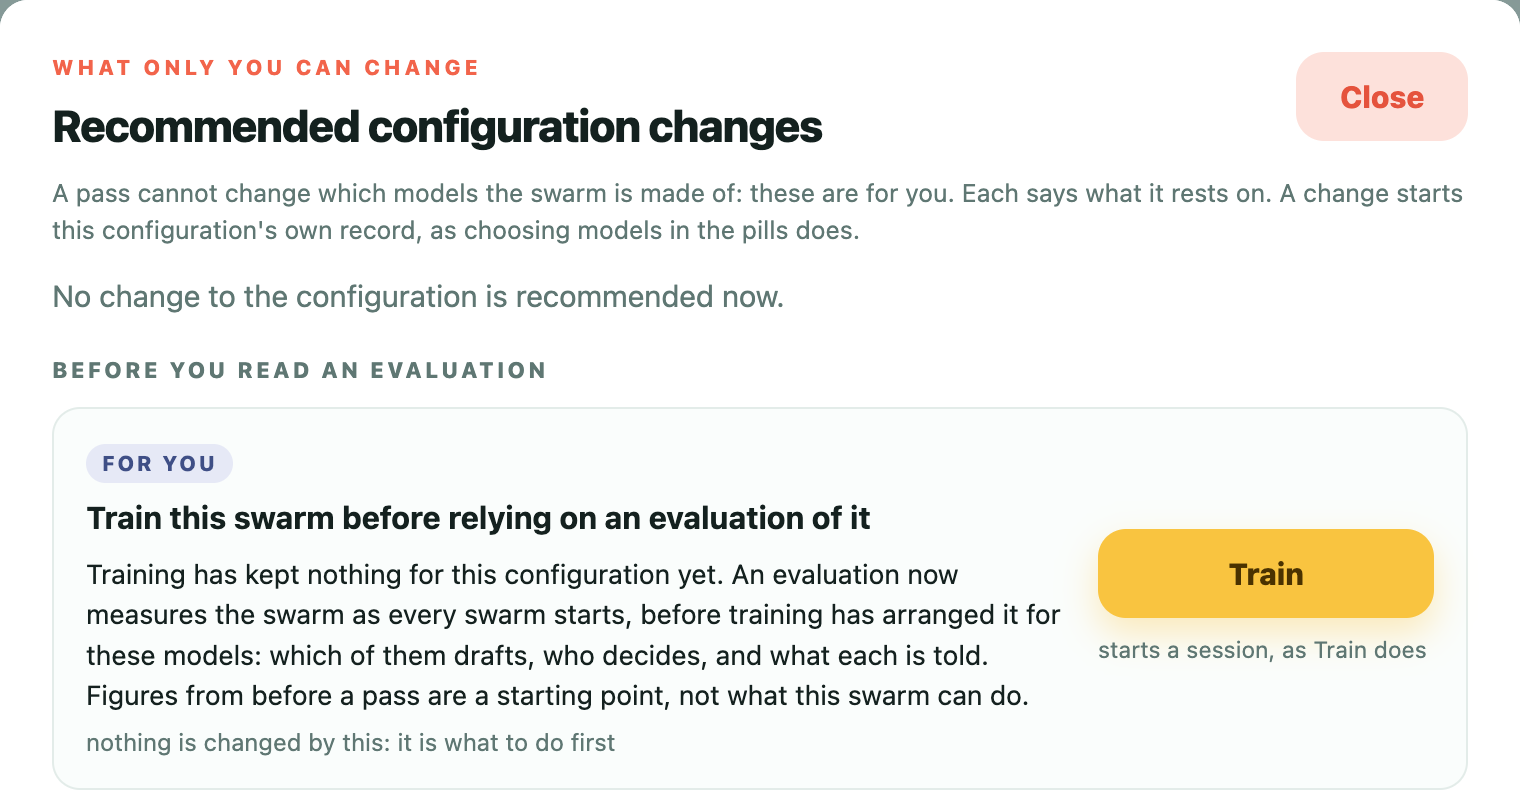
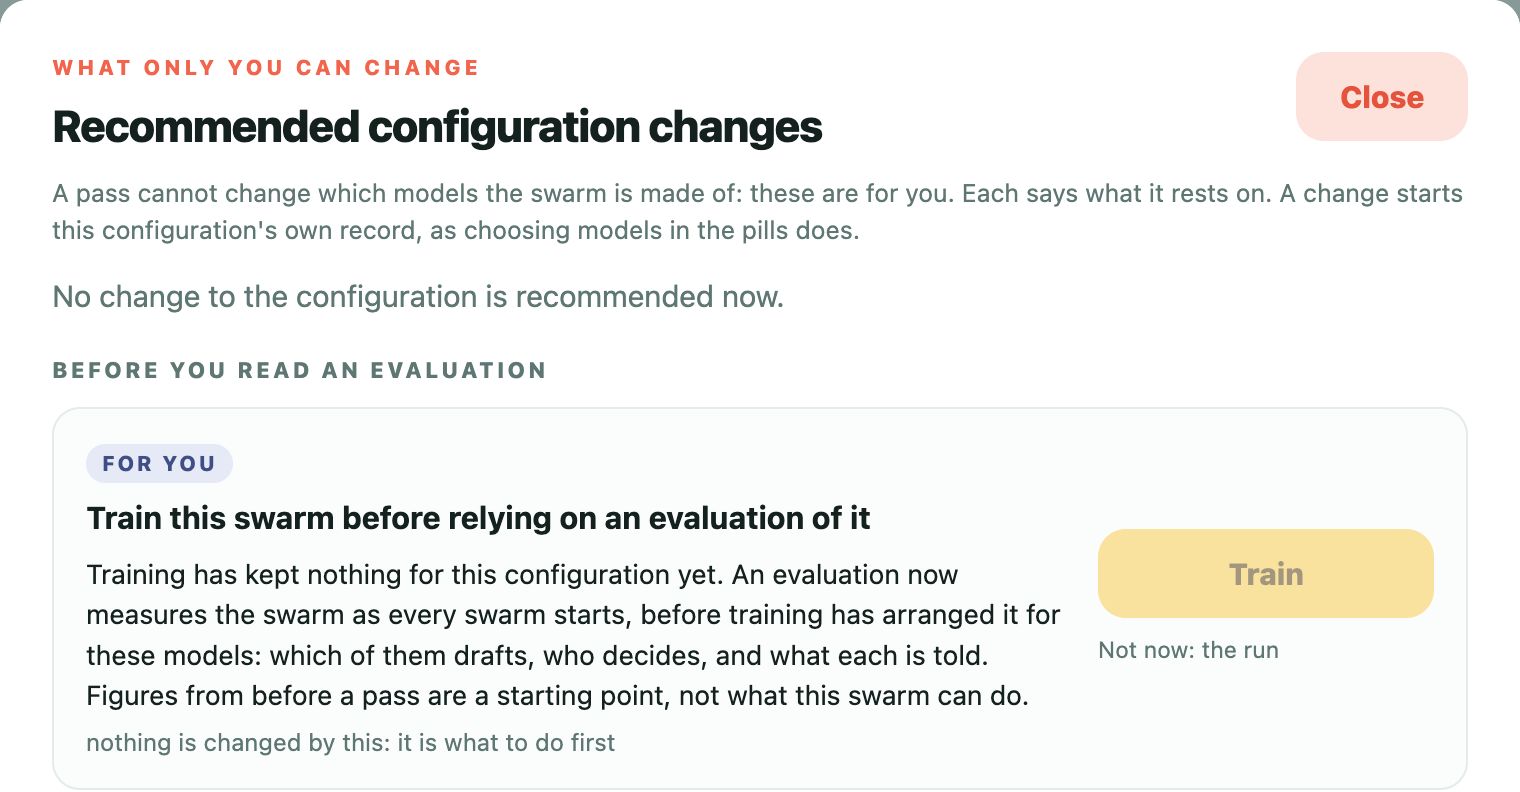
docs: the five older dashboard pictures retaken, descriptions matched
The Train card, the plan, the spec, the questions and the
recommendations were of 18:20, before the run's first two steps ended.
Retaken from the page as served that evening, and each description
corrected to what its picture shows: the spec's Search verdict is open
(it read short), the Train card and the recommendations show the run
going. The page's introduction says which pictures were taken while the
run was stopped and which while it was going.

Changed region(s): [[0.7112, 0.6667, 0.9586, 0.8485]]

diff --git a/docs/dashboard.md b/docs/dashboard.md
@@ -6,9 +6,8 @@ python3 ui/swarm_ui.py
 
 It opens at `http://127.0.0.1:8787/` (`--port` changes that). It needs nothing installed.
 
-The pictures here and at the top of this page show it on 2026-11-22: a swarm of LFM2.5 1.2B in both places against
-Nemotron 3.5 Lightning 30B, evaluated as configured, its run paused and nothing running. They are taken from the page as
-it is served. Every section folds, smoothly, and says in a line what it holds while folded; open or folded
+The pictures here and at the top of the [README](../README.md) show it on 2026-11-22: a swarm of LFM2.5 1.2B in both places against
+Nemotron 3.5 Lightning 30B, that evening. They are taken from the page as it is served: the top of the page, Evaluate and the System picture while its run was stopped after its second step, the others once it was going again. Every section folds, smoothly, and says in a line what it holds while folded; open or folded
 is kept on the device.
 
 <p align="center">
@@ -18,7 +17,7 @@ is kept on the device.
 <p align="center"><em>Evaluate the swarm: the module&#39;s score as a share of the larger model&#39;s on the same questions, and the three evaluations Run sets side by side: as configured, pretrained, and pretrained and trained. The three buttons open the same results as a line for every task, as a paper sets them out, and drawn.</em></p>
 
 <p align="center">
-  <img src="images/dashboard-arrangement.png" alt="The Train card: 0% answers good in pass 1; the classes of input a session trains (with tools, a conversation, asking for code, a plain question); Clear training state; the swarm as it stands (briefs v1, 7 slots on 2 models, 0 kept changes); nothing running and no model loaded; Question by question, not begun, with the key to its pips; and the plain flow as faces: draft, try, check, decide, write" width="860">
+  <img src="images/dashboard-arrangement.png" alt="The Train card: 0% answers good in pass 1; the classes of input a session trains (with tools, a conversation, asking for code, a plain question); Clear training state; the swarm as it stands (briefs v1, 7 slots on 2 models, 0 kept changes); a line saying that the run is going and training waits for it, the models being loaded for the run; Question by question, not begun, with the key to its pips; and the plain flow as faces: draft, try, check, decide, write" width="860">
 </p>
 
 <p align="center"><em>The Train card before a pass: the share of answers good, the classes of input a session trains, and every slot as a face of its model, in the step of the flow it stands in. Choosing one opens what it is told.</em></p>
@@ -36,7 +35,7 @@ is kept on the device.
 <p align="center"><em>Visualizing the System: the run, a request inside the module, what training keeps, the training of the arrangement in detail, and the judge. Every part has a code to name it by, and the box the run or the loop is in is marked.</em></p>
 
 <p align="center">
-  <img src="images/dashboard-spec.png" alt="The head of the SwOA spec of one configuration: its name; Copy as JSON, Save as a file, and Publish to specs/ greyed out; not yet measured by training against Nemotron 3.5 Lightning 30B; and the proof: its rule, and a verdict for each capability with its questions and its gap (Code short, Instructions open, Logic short, Math open, Reasoning short, Search short, Tools at parity), each a check and not yet proof" width="860">
+  <img src="images/dashboard-spec.png" alt="The head of the SwOA spec of one configuration: its name; Copy as JSON, Save as a file, and Publish to specs/ greyed out; not yet measured by training against Nemotron 3.5 Lightning 30B; and the proof: its rule, and a verdict for each capability with its questions and its gap (Code short, Instructions open, Logic short, Math open, Reasoning short, Search open, Tools at parity), each a check and not yet proof" width="860">
 </p>
 
 <p align="center"><em>The SwOA spec, its first screen: where training stands, and the proof, capability by capability. Below it in the dialog: each task, what training kept with the evidence, the card a model chooser lists, what it needs of a machine, what it can do, what it is made from (its adapters, by role, and the instruments that are on), its models, the flow, every slot with what it is told, and the spec as JSON. Copy it, or save it as a file.</em></p>
@@ -72,7 +71,7 @@ say which model's drafts held each right answer (and which held it alone), how o
 how often a slot stopped at its token limit, and how often the decider did not answer.
 
 <p align="center">
-  <img src="images/dashboard-recommendations.png" alt="Recommended configuration changes: no change to the configuration is recommended now; and, before an evaluation is read, to train this swarm first, since training has kept nothing for it yet, with a Train button" width="620">
+  <img src="images/dashboard-recommendations.png" alt="Recommended configuration changes: no change to the configuration is recommended now; and, before an evaluation is read, to train this swarm first, since training has kept nothing for it yet, with a Train button, greyed out while the run is going" width="620">
 </p>
 
 <p align="center"><em>Recommendations, as the page showed them on 2026-11-22: nothing to change in the lineup, and a reminder that an evaluation before training measures the swarm as every swarm starts. Under it the page lists updates to the engines on the machine.</em></p>
